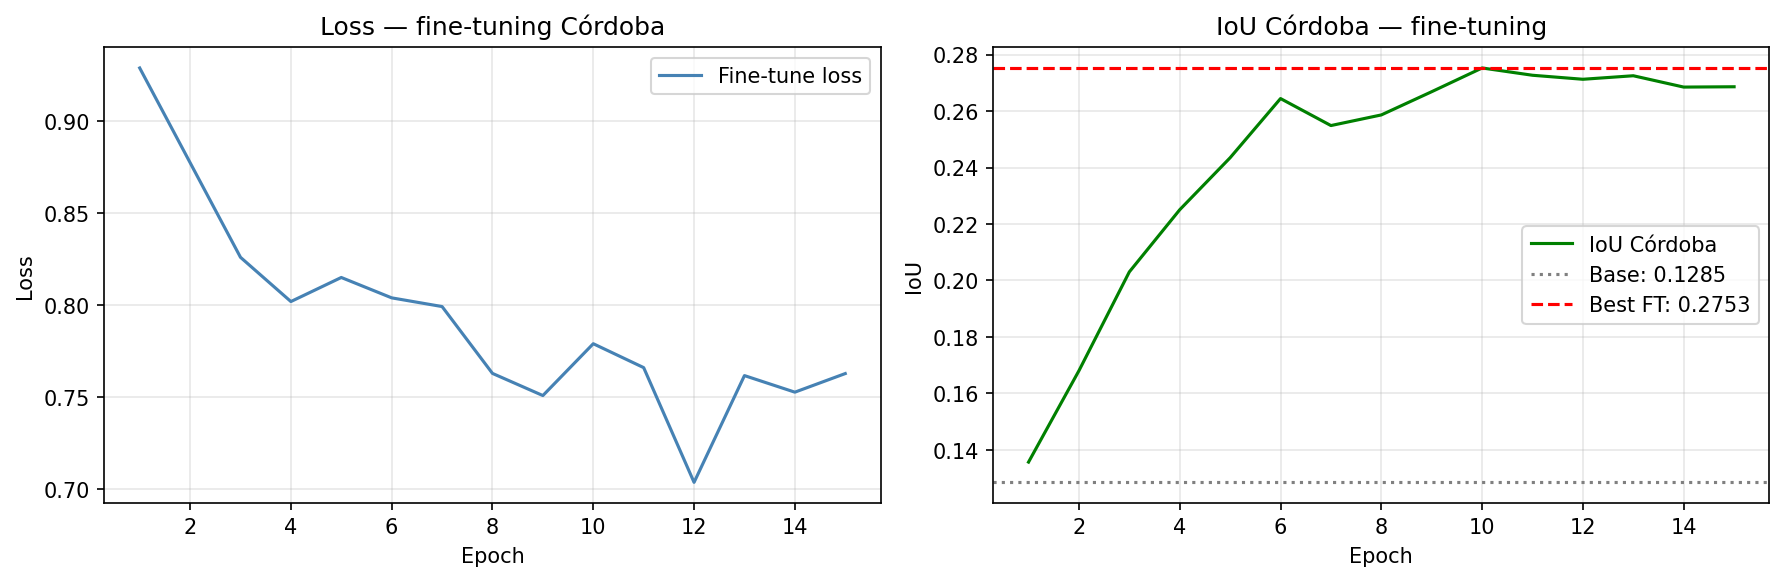
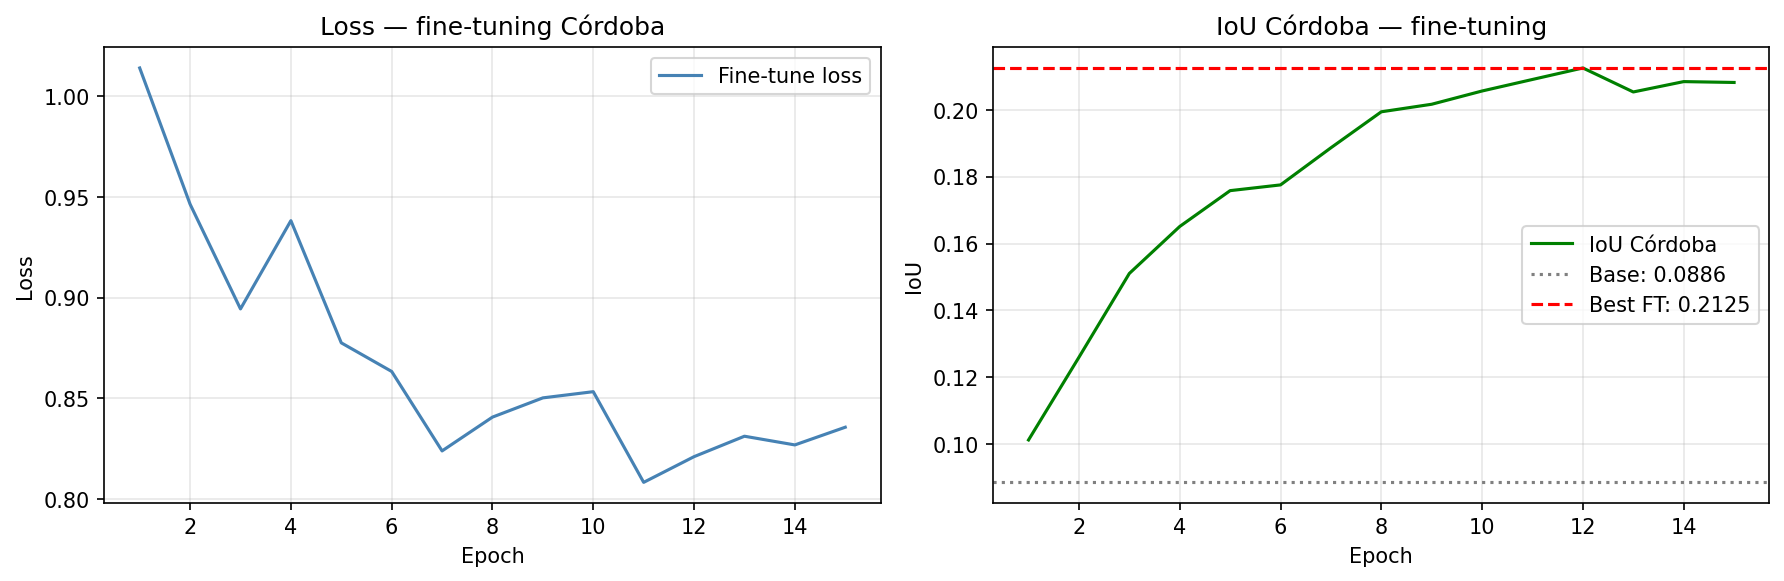
docs: update Cordoba v1.5 evaluation results (zero-shot + few-shot FT)
Zero-shot: IoU=0.089, Recall=0.267, Precision=0.117, AUC-ROC=0.673
Few-shot FT (100 patches, decoder only): IoU=0.212, Recall=0.547, Precision=0.258, AUC-ROC=0.827
Regenerate Cordoba figures in English.

diff --git a/README.md b/README.md
@@ -9,10 +9,10 @@ Semantic segmentation of wildfire burn scars using the IBM/NASA Prithvi-100M geo
 | U-Net ResNet34 | FIRMS active fire | Corrientes | 0.013 | 7% | 14% | — |
 | Prithvi-100M + FPN (v1.5, T=1) | dNBR burn scar | Corrientes | 0.54 | 71% | 69% | — |
 | **Prithvi-100M + FPN (v1.6, T=2)** | **dNBR burn scar** | **Corrientes** | **0.64** | **81%** | **75%** | — |
-| Prithvi-100M + FPN | dNBR | Cordoba (zero-shot) | 0.13 | 75% | 13% | 0.73 |
-| **Prithvi-100M + FPN (few-shot FT)** | **dNBR** | **Cordoba (100 patches)** | **0.28** | **59%** | **34%** | **0.85** |
+| Prithvi-100M + FPN (v1.5, zero-shot) | dNBR | Cordoba | 0.09 | 27% | 12% | 0.67 |
+| **Prithvi-100M + FPN (v1.5, few-shot FT)** | **dNBR** | **Cordoba (100 patches)** | **0.21** | **55%** | **26%** | **0.83** |
 
-49x improvement over the FIRMS-based baseline. Adding a pre-fire temporal input (T=2 Siamese fusion) raises IoU from 0.54 to 0.64 (+18.6%), improving both precision and recall simultaneously. Few-shot fine-tuning of the decoder on 100 Cordoba patches achieves 2.14x IoU gain over zero-shot transfer with the encoder kept frozen throughout.
+49x improvement over the FIRMS-based baseline. Adding a pre-fire temporal input (T=2 Siamese fusion) raises IoU from 0.54 to 0.64 (+18.6%), improving both precision and recall simultaneously. Zero-shot transfer to Cordoba with v1.5 yields IoU=0.09; few-shot fine-tuning of the decoder on 100 Cordoba patches raises IoU to 0.21 (+139%, 2.4x) and AUC-ROC to 0.83, with encoder kept frozen throughout.
 
 ![Portfolio overview](results/validation_overview.png)
 
@@ -94,12 +94,12 @@ Sweeping thresholds 0.05→0.95 on the validation set reveals that the optimal o
 
 | Metric | Corrientes val (v1.5) | Cordoba zero-shot (v1.5) |
 |---|---|---|
-| IoU | 0.54 | 0.13 |
-| Recall | 0.71 | **0.75** |
-| Precision | 0.69 | 0.13 |
-| AUC-ROC | — | 0.73 |
+| IoU | 0.54 | 0.09 |
+| Recall | 0.71 | 0.27 |
+| Precision | 0.69 | 0.12 |
+| AUC-ROC | — | 0.67 |
 
-The model retains high recall in Cordoba (75% of real burn scars detected) but precision drops due to spectral distribution shift between the Corrientes wetlands biome and the Cordoba mountain scrubland. AUC-ROC of 0.73 confirms the model learned transferable burn-scar spectral features.
+Zero-shot transfer to Cordoba degrades more sharply with v1.5 than with earlier versions (v1.0 zero-shot achieved IoU=0.13, AUC-ROC=0.73). The backbone partial unfreeze (v1.3+) and multi-scale neck adapted the model more tightly to Corrientes spectral patterns, reducing cross-biome generalization. AUC-ROC=0.67 remains above random (0.5), confirming that the model retains some transferable burn-scar features. This finding directly motivates Roadmap items #1 (apply T=2 model to Cordoba) and #3 (multi-region training).
 
 ### Few-shot domain adaptation: Cordoba
 
@@ -109,14 +109,14 @@ The FPN decoder was fine-tuned on 100 Cordoba patches (encoder kept frozen). The
 
 ![Fine-tuned predictions](results/cordoba_finetune_predictions.png)
 
-| Metric | Zero-shot (base) | Few-shot FT (100 patches) | Change |
+| Metric | Zero-shot (v1.5) | Few-shot FT (100 patches) | Change |
 |---|---|---|---|
-| IoU | 0.13 | **0.28** | +0.15 |
-| Recall | 0.75 | 0.59 | -0.16 |
-| Precision | 0.13 | **0.34** | +0.21 |
-| AUC-ROC | 0.73 | **0.85** | +0.13 |
+| IoU | 0.09 | **0.21** | +0.12 (+139%) |
+| Recall | 0.27 | **0.55** | +0.28 |
+| Precision | 0.12 | **0.26** | +0.14 |
+| AUC-ROC | 0.67 | **0.83** | +0.15 |
 
-The fine-tuning trades some recall for a large precision gain. Overall IoU improves 2.14x. AUC-ROC reaches 0.85, indicating strong discriminative ability after adaptation. The encoder was never updated — all improvement comes from adapting the 2M-parameter decoder to the new biome.
+Fine-tuning the FPN decoder on 100 Cordoba patches (encoder kept frozen throughout) yields a 2.4x IoU gain and raises AUC-ROC from 0.67 to 0.83. All adaptation comes from the decoder adjusting to the new biome's spectral distribution — the Prithvi-100M encoder weights are never updated.
 
 ### Temporal fusion: Siamese T=2 model (v1.6)
 
@@ -135,13 +135,13 @@ Both precision and recall improve simultaneously — the model eliminates false 
 
 ## Limitations
 
-The main limitation is biome-induced domain shift. The FPN decoder was trained on a single biome (Corrientes wetlands) and did not encounter the spectral characteristics of mountain xerophytic vegetation, causing over-prediction in Cordoba (Precision=0.13 zero-shot vs 0.34 after few-shot adaptation). Multi-region training across diverse biomes would reduce this gap without requiring fine-tuning at inference time.
+The main limitation is biome-induced domain shift. The FPN decoder was trained on a single biome (Corrientes wetlands) and did not encounter the spectral characteristics of mountain xerophytic vegetation, causing over-prediction in Cordoba (Precision=0.12 zero-shot, 0.26 after few-shot adaptation). Multi-region training across diverse biomes would reduce this gap without requiring fine-tuning at inference time.
 
 ## Roadmap
 
 | Priority | Improvement | Status |
 |---|---|---|
-| 1 | **T=2 evaluation on Cordoba** — apply v1.6 Siamese model to Cordoba zero-shot; pre-fire spectral change should reduce false positives (Precision 0.13 → est. 0.25+) | Planned |
+| 1 | **T=2 evaluation on Cordoba** — apply v1.6 Siamese model to Cordoba zero-shot; pre-fire spectral change should reduce false positives (v1.5 zero-shot Precision=0.12 → est. 0.25+) | Planned |
 | 2 | **Test-Time Augmentation (TTA)** — average predictions over flips and rotations at inference, no retraining required | Planned |
 | 3 | **Multi-region training (Portugal 2022)** — add ~100k ha from a second fire event to the training set, targeting structural reduction of domain shift without per-region fine-tuning | Planned |
 